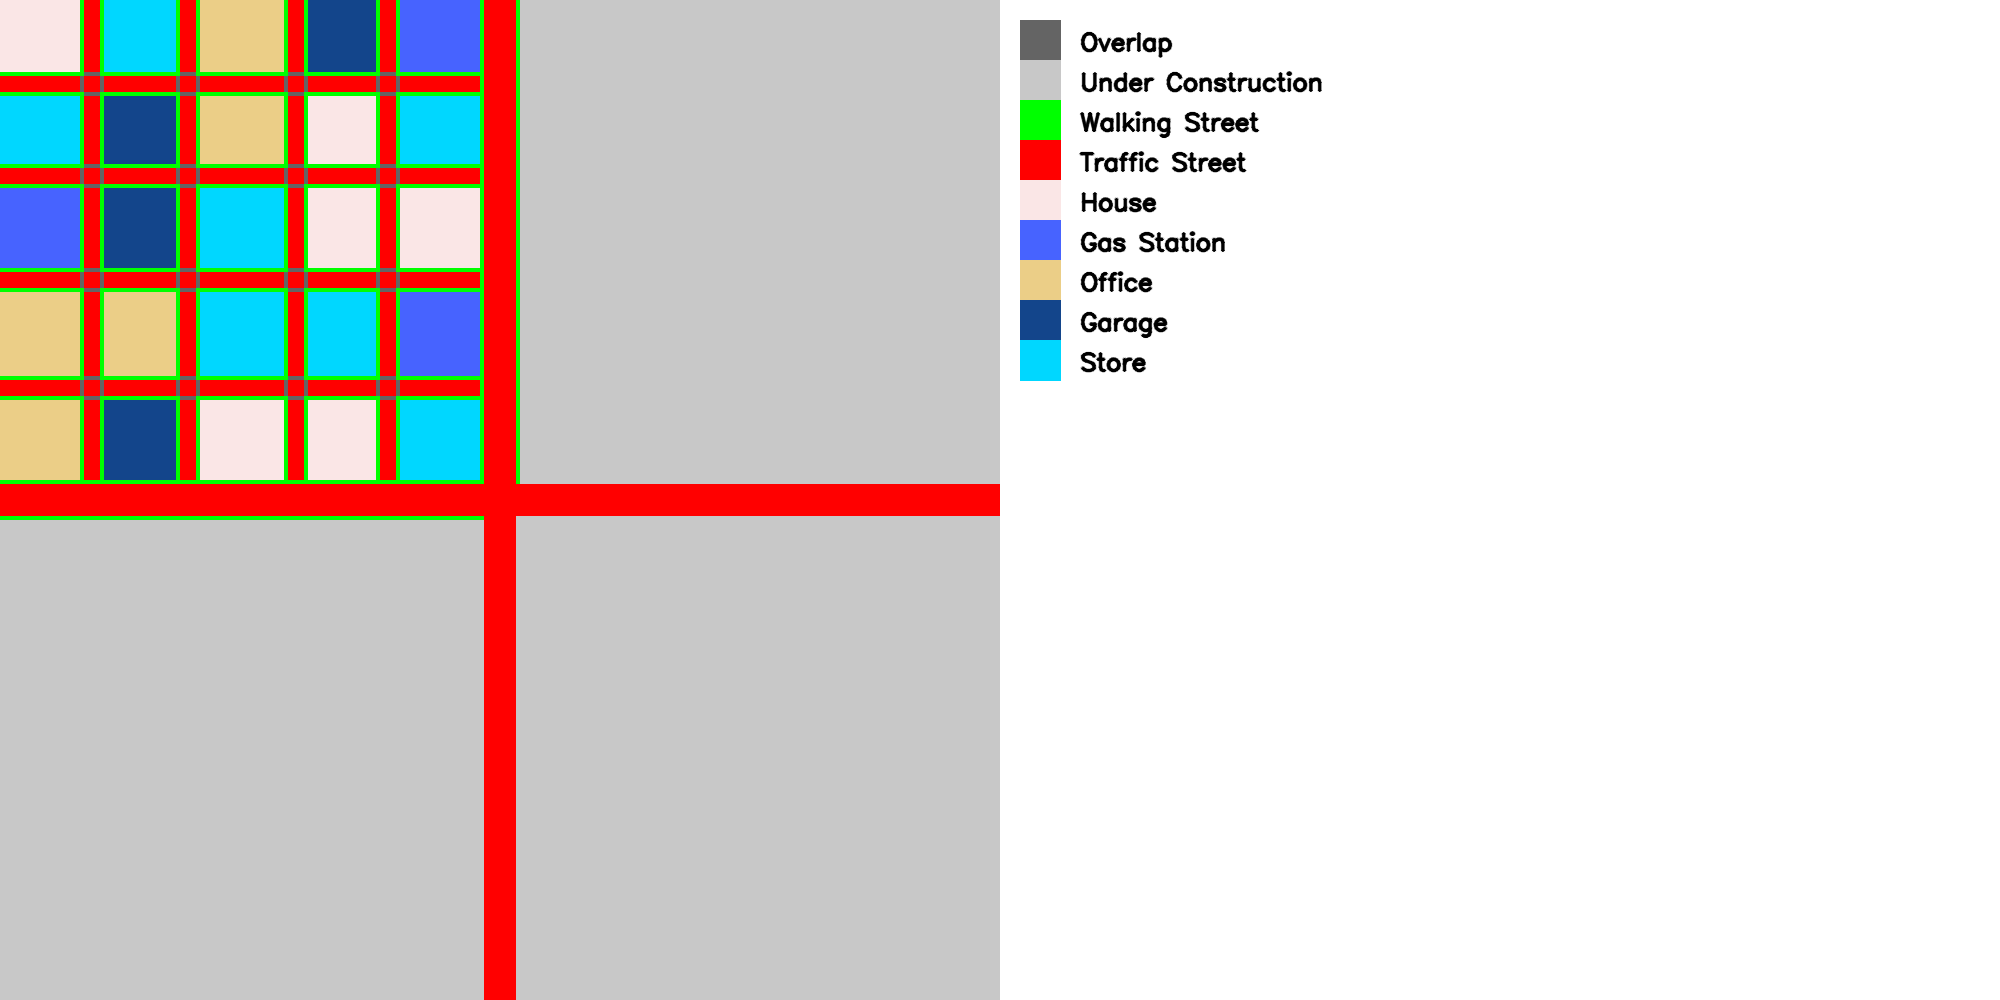
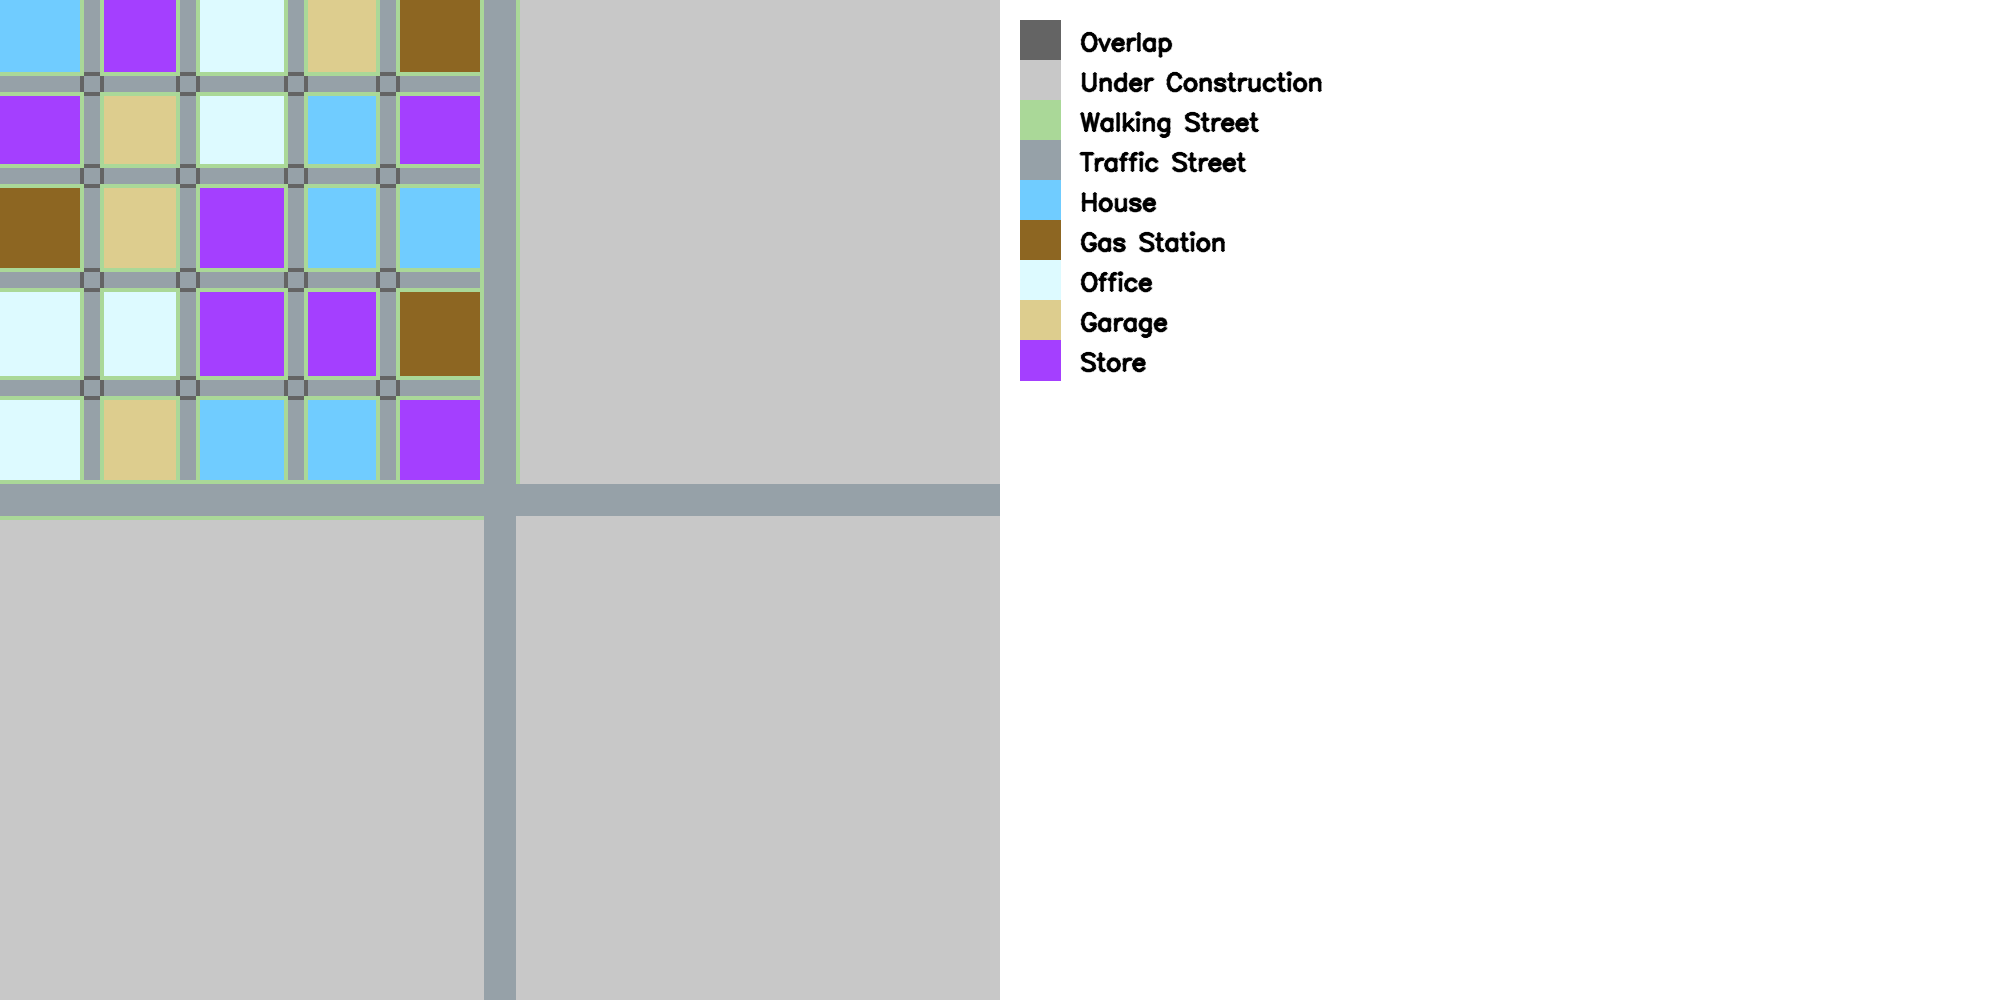
finished visualization, global planner, and multi-agent settings

Changed region(s): [[0.0, 0.0, 0.496, 1.0], [0.496, 0.093, 0.558, 0.403]]

diff --git a/core/city.py b/core/city.py
@@ -12,7 +12,8 @@ LABEL_MAP = {
     4: 'Gas Station',
     5: 'Office',
     6: 'Garage',
-    7: 'Store'
+    7: 'Store',
+    8: 'Pedestrian'
 }
 
 class City:
@@ -57,39 +58,64 @@ class City:
                             self.city_grid[1][i][j] = -1
 
     def add_agent(self, agent):
-        """Add a building to the city and mark its position on the grid."""
-        self.buildings.append(agent)
-        building_code = self.type2label[building.type]
-        for i in range(building.position[0], building.position[0] + building.size[0]):
-            for j in range(building.position[1], building.position[1] + building.size[1]):
-                if 0 <= i < self.grid_size[0] and 0 <= j < self.grid_size[1]:  # Check boundaries
-                    self.city_grid[0][i][j] = building_code
+        """Add a agents to the city and mark its position on the grid. Label correspons
+            to the current position, Label+0.1 denotes planned global path, Label+0.3 denotes goal point,
+            Label+0.2 denoets next position and, Label-0.1 means walked position
+        """
+        self.agents.append(agent)
+        agent_layer = torch.zeros((1, self.grid_size[0], self.grid_size[1]))
+        agent_code = self.type2label[agent.type]
+        # draw agent
+        agent_layer[0][agent.start[0]:agent.start[0]+agent.size, agent.start[1]:agent.start[1]+agent.size] = agent_code
+        agent_layer[0][agent.goal[0]:agent.goal[0]+agent.size, agent.goal[1]:agent.goal[1]+agent.size] = agent_code + 0.3
+        for way_points in agent.global_traj[1:-1]:
+            agent_layer[0][way_points[0]:way_points[0]+agent.size, way_points[1]:way_points[1]+agent.size] = agent_code + 0.1
+        agent.layer_id = self.city_grid.shape[0]
+        self.city_grid = torch.concat([self.city_grid, agent_layer], dim=0)
+        self.layers += 1
 
-    def visualize(self, resolution):
+    def visualize(self, resolution, agent_layer=None, agent_type=None):
         # Define a color for each entity
+        # only visualize a static map with buildings, streets, and one layer agents
         color_map = {
             -1: [100, 100, 100],
-            0: [200, 200, 200],       # White for empty
-            1: [0, 255, 0],           # Green for walking street
-            2: [0, 0, 255],           # Red for traffic street
-            3: [230, 230, 250],       # Lavender for house
-            4: [255, 99, 71],         # Tomato for gas station
-            5: [135, 206, 235],       # SkyBlue for office
-            6: [139, 69, 19],         # SaddleBrown for garage
-            7: [255, 215, 0]          # Gold for store
+            0: [200, 200, 200],       # Grey for empty
+            1: [152, 216, 170],           # Green for walking street
+            2: [168, 161, 150],        # Red for traffic street
+            3: [255, 204, 112],       # house
+            4: [34, 102, 141],        # gas station
+            5: [255, 250, 221],       # office
+            6: [142, 205, 221],       # garage
+            7: [255, 63, 164]         # store
         }
 
-        # Create a visual grid of the city
+        # Create a visual grid of the city, buildings and streets
         visual_grid = np.ones((resolution, resolution, 3), dtype=np.uint8)*200
         np_grid = self.city_grid.numpy().astype(np.int)
         scale_factor = resolution/self.grid_size[0]
-        for k in range(self.layers):
+        for k in range(2):
             for i in range(self.grid_size[0]):
                 for j in range(self.grid_size[1]):
                     if np_grid[k][i][j] != 0:
                         color = color_map[np_grid[k][i][j]]
                         visual_grid[int(i*scale_factor):int((i+1)*scale_factor), int(j*scale_factor):int((j+1)*scale_factor)] = color
 
+        # draw agent's if provided layer
+        if agent_layer != None:
+            assert agent_type != None
+            agent_layer = self.city_grid[agent_layer]
+            cur_agent_pos = torch.nonzero((agent_layer == self.type2label[agent_type]).float()).tolist()
+            planned_traj = torch.nonzero((agent_layer == self.type2label[agent_type]+0.1).float()).tolist()
+            goal_agent_pos = torch.nonzero((agent_layer == self.type2label[agent_type]+0.3).float()).tolist()
+            cv2.drawMarker(visual_grid, (int(cur_agent_pos[0][1]*scale_factor), int(cur_agent_pos[0][0]*scale_factor)), \
+                (255, 0, 0), markerType=cv2.MARKER_CROSS, markerSize=5, thickness=2, line_type=cv2.LINE_AA)
+            cv2.drawMarker(visual_grid, (int(goal_agent_pos[0][1]*scale_factor), int(goal_agent_pos[0][0]*scale_factor)), \
+                (0, 0, 255), markerType=cv2.MARKER_CROSS, markerSize=5, thickness=2, line_type=cv2.LINE_AA)
+            for way_point in planned_traj:
+                visual_grid[int(way_point[0]*scale_factor):int((way_point[0]+1)*scale_factor), \
+                    int(way_point[1]*scale_factor):int((way_point[1]+1)*scale_factor)] = [0, 255, 0]
+        
+        
         # Add the legend
         padding = int(10*scale_factor)
         legend_width = resolution
@@ -109,4 +135,4 @@ class City:
         combined_img = np.hstack((visual_grid, legend_img))
 
         # Use OpenCV to display the city
-        cv2.imwrite('City.png', combined_img)
+        cv2.imwrite('City_agent.png', combined_img)

diff --git a/agents/pedestrian.py b/agents/pedestrian.py
@@ -2,22 +2,28 @@ from .basic import Agent
 import torch
 import torch.nn.functional as F
 from utils.find import find_nearest_building, find_building_mask
+import logging
+
+logger = logging.getLogger(__name__)
 
 class Pedestrian(Agent):
-    def __init__(self, type, size, id, world_state_martix):
-        super().__init__(type, size, id, world_state_martix)
+    def __init__(self, type, size, id, world_state_matrix, global_planner):
         self.start_point_list = None
         self.goal_point_list = None
+        self.global_planner = global_planner
+        super().__init__(type, size, id, world_state_matrix)
 
-    def init(self, world_state_martix, global_planner=None, local_planner=None):
-        self.start = self.get_start(world_state_martix)
+    def init(self, world_state_matrix):
+        WALKING_STREET = 1
+        CROSSING_STREET = -1
+        self.start = self.get_start(world_state_matrix)
         self.pos = self.start
-        self.goal = self.get_goal(world_state_martix, self.start)
+        self.goal = self.get_goal(world_state_matrix, self.start)
         # specify the occupacy map
-        movable_region = self.get_movable_area(world_state_martix)
+        movable_region = (world_state_matrix[1] == WALKING_STREET) | (world_state_matrix[1] == CROSSING_STREET)
         # get global traj on the occupacy map
-        self.global_traj = global_planner(self.start, self.goal, movable_region)
-        return super().init(global_planner, local_planner)
+        self.global_traj = self.global_planner(movable_region, self.start, self.goal)
+        logger.info("{}_{} initialization done!".format(self.type, self.id))
 
     def get_start(self, world_state_matrix):
         # Define the labels for different entities
@@ -34,15 +40,17 @@ class Pedestrian(Agent):
         # Define a kernel that captures cells around a central cell.
         # This kernel will look for a house or office around the central cell.
         kernel = torch.tensor([
-            [1, 1, 1],
-            [1, 0, 1],
-            [1, 1, 1]
+            [1, 1, 1, 1, 1],
+            [1, 1, 1, 1, 1],
+            [1, 1, 0, 1, 1],
+            [1, 1, 1, 1, 1],
+            [1, 1, 1, 1, 1]
         ], dtype=torch.float32).unsqueeze(0).unsqueeze(0)
 
         # Check for houses and offices around each cell
         building_layer = world_state_matrix[0]
         houses_offices = (building_layer == HOUSE) | (building_layer == OFFICE)
-        conv_res = F.conv2d(houses_offices.float().unsqueeze(0).unsqueeze(0), kernel, padding=1)
+        conv_res = F.conv2d(houses_offices.float().unsqueeze(0).unsqueeze(0), kernel, padding=2)
 
         # Find cells that are walking streets and have a house or office around them
         desired_locations = (walking_streets & (conv_res.squeeze() > 0))

diff --git a/planners/glob/A_star.py b/planners/glob/A_star.py
@@ -1,0 +1,77 @@
+import torch
+from queue import PriorityQueue
+
+class Node:
+    def __init__(self, position:tuple, parent:tuple):
+        self.position = position
+        self.parent = parent
+        self.g = 0  # Cost from start to current node
+        self.h = 0  # Heuristic based estimated cost from current node to end
+        self.f = 0  # Total cost
+
+    def __eq__(self, other):
+        return self.position == other.position
+
+    def __lt__(self, other):
+        return self.f < other.f
+
+def heuristic(point_a, point_b):
+    # Manhattan distance on a grid
+    return abs(point_a[0] - point_b[0]) + abs(point_a[1] - point_b[1])
+    
+def astar(movable_map, start, end):
+    start = tuple(start)
+    end = tuple(end)
+    start_node = Node(start, None)
+    end_node = Node(end, None)
+
+    open_queue = PriorityQueue()
+    open_queue.put(start_node)
+    open_dict = {start: start_node}
+    closed_list = torch.zeros(movable_map.shape, dtype=torch.bool)
+
+    while not open_queue.empty():
+        current_node = open_queue.get()
+        
+        if current_node.position not in open_dict:
+            continue
+            
+        del open_dict[current_node.position]
+
+        closed_list[current_node.position] = True
+
+        if current_node == end_node:
+            path = []
+            while current_node:
+                path.append(current_node.position)
+                current_node = current_node.parent
+            return path[::-1]  # Return reversed path
+
+        children = []
+        for new_position in [(0, -1), (0, 1), (-1, 0), (1, 0)]:
+            node_position = (current_node.position[0] + new_position[0], current_node.position[1] + new_position[1])
+
+            if (node_position[0] > (movable_map.shape[0] - 1) or 
+                node_position[0] < 0 or 
+                node_position[1] > (movable_map.shape[1] -1) or 
+                node_position[1] < 0):
+                continue
+
+            if not movable_map[node_position] or closed_list[node_position]:
+                continue
+
+            new_node = Node(node_position, current_node)
+            children.append(new_node)
+
+        for child in children:
+            child.g = current_node.g + 1
+            child.h = heuristic(child.position, end_node.position)
+            child.f = child.g + child.h
+
+            if child.position in open_dict and child.g > open_dict[child.position].g:
+                continue
+
+            open_queue.put(child)
+            open_dict[child.position] = child
+
+    return None

diff --git a/utils/find.py b/utils/find.py
@@ -13,17 +13,28 @@ def find_nearest_building(world_state_matrix, start_point):
     
     return nearest_building
 
-def find_building_mask(world_state_matrix, nearest_building):
-    buildings_layer = world_state_matrix[0]
+def find_building_mask(city_grid, start_point):
+    # The value at the starting point, i.e., the building type
+    city_grid = city_grid[0]
+    building_type = city_grid[start_point[0], start_point[1]]
     
-    # Create a mask of zeros with the same shape as buildings_layer
-    mask = torch.zeros_like(buildings_layer, dtype=torch.float)
-    
-    # Set the position of the nearest_building in the mask to 1
-    mask[nearest_building[0], nearest_building[1]] = 1
-    
-    # Use dilation to expand the mask and get the entire building
-    kernel_size = 3  # We assume buildings can be isolated by a 3x3 kernel. You might adjust this.
-    building_mask = F.max_pool2d(mask[None, None], kernel_size, stride=1, padding=(kernel_size - 1) // 2) > 0
-    
-    return building_mask[0, 0]
+    # Expand boundaries iteratively to find the extent of the building
+    top, bottom, left, right = start_point[0], start_point[0], start_point[1], start_point[1]
+
+    while top > 0 and city_grid[top - 1, start_point[1]] == building_type:
+        top -= 1
+
+    while bottom < city_grid.shape[0] - 1 and city_grid[bottom + 1, start_point[1]] == building_type:
+        bottom += 1
+
+    while left > 0 and city_grid[start_point[0], left - 1] == building_type:
+        left -= 1
+
+    while right < city_grid.shape[1] - 1 and city_grid[start_point[0], right + 1] == building_type:
+        right += 1
+
+    # Create the mask
+    mask = torch.zeros_like(city_grid, dtype=torch.bool)
+    mask[top:bottom + 1, left:right + 1] = True
+
+    return mask

diff --git a/main.py b/main.py
@@ -23,30 +23,17 @@ def main(args, logger):
     logger.info("Starting city simulation...")
     # Create a city instance with a predefined grid
     city = CityLoader.from_yaml(args.map)
-    city.visualize(1000)
-    
-    # Create an agent instance with its goals and planners
-    # global_planner = GlobalPlanner(city, tuple(args.start_position), tuple(args.goal_position))
-    # local_planner = LocalPlanner(city)
-    # agent = Agent(tuple(args.start_position), global_planner, local_planner)
-    
-    # Add the agent to the city
-    # city.add_agent(agent)
-    
+    city.visualize(1000, 2, "Pedestrian")
+
     # Main simulation loop
     steps = 0
-    # while not agent.at_goal() and steps < args.max_steps:
-    #     # Get agent's next global plan
-    #     global_plan = agent.global_planner.plan()
-
-    #     # Let the agent decide its next move using local planner
-    #     next_move = agent.local_planner.decide_move(global_plan)
-    #     agent.move(next_move)
-
-    #     # Visualize the current state of the city (optional)
-    #     visualize_city(city)
-
-    #     steps += 1
+    cached_observation = {0: city.city_grid}
+    while 1:
+        city.update()
+        # Visualize the current state of the city (optional)
+        city.visualize(1000, 2, "Pedestrian")
+        steps += 1
+        cached_observation[steps] = city.city_grid
 
     # if agent.at_goal():
     #     print("Agent reached its goal!")

diff --git a/agents/basic.py b/agents/basic.py
@@ -1,7 +1,7 @@
 import torch
 
 class Agent:
-    def __init__(self, type, size, id, world_state_martix):
+    def __init__(self, type, size, id, world_state_matrix):
         self.size = size
         self.type = type
         self.id = id
@@ -10,23 +10,24 @@ class Agent:
         self.start = None
         self.goal = None
         self.pos = None
-        self.init(world_state_martix)
+        self.layer_id = 0
+        self.init(world_state_matrix)
 
-    def init(self, world_state_martix, global_planner=None, local_planner=None):
+    def init(self, world_state_matrix):
         # init global planner, global traj, local planner, start and goal point
         pass
 
-    def get_start(self, world_state_martix):
+    def get_start(self, world_state_matrix):
         pass
 
-    def get_goal(self, world_state_martix):
+    def get_goal(self, world_state_matrix):
         pass
         
     def move(self, action):
         pass
         
-    def get_next_action(self, world_state_martix):
+    def get_next_action(self, world_state_matrix):
         pass
 
-    def get_movable_area(self, world_state_martix):
+    def get_movable_area(self, world_state_matrix):
         pass

diff --git a/utils/load.py b/utils/load.py
@@ -1,6 +1,7 @@
 import yaml
 from core import City, Building, Street
 from agents import Agent_mapper
+from planners import GPlanner_mapper
 from tqdm import tqdm
 import logging
 
@@ -44,12 +45,13 @@ class CityLoader:
         logger.info("Adding {} agents".format(len(city_config["agents"])))
         for agents_data in tqdm(city_config["agents"]):
             agent = Agent_mapper[agents_data["type"]](
-                type=tuple(agents_data["type"]),
+                type=agents_data["type"],
                 size=agents_data["size"],
                 id=agents_data["id"],
-                world_state_martix=city.city_grid
+                global_planner=GPlanner_mapper[agents_data['gplanner']],
+                world_state_matrix=city.city_grid
             )
-            city.add_street(agent)
+            city.add_agent(agent)
 
         logger.info("Done!")
         return city

diff --git a/planners/glob/__init__.py b/planners/glob/__init__.py
@@ -1,0 +1,5 @@
+from .A_star import astar
+
+GPlanner_mapper = {
+    'A*': astar
+}

diff --git a/planners/__init__.py b/planners/__init__.py
@@ -1,0 +1,1 @@
+from .glob import GPlanner_mapper
